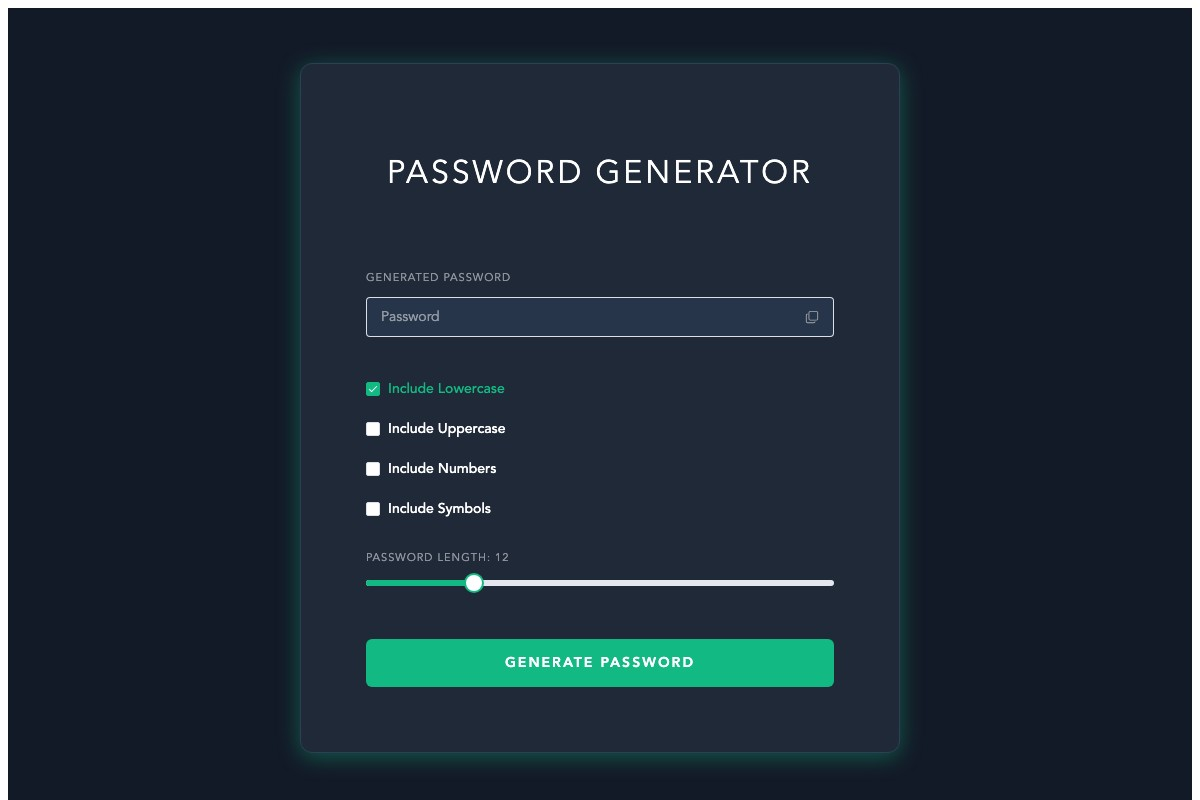
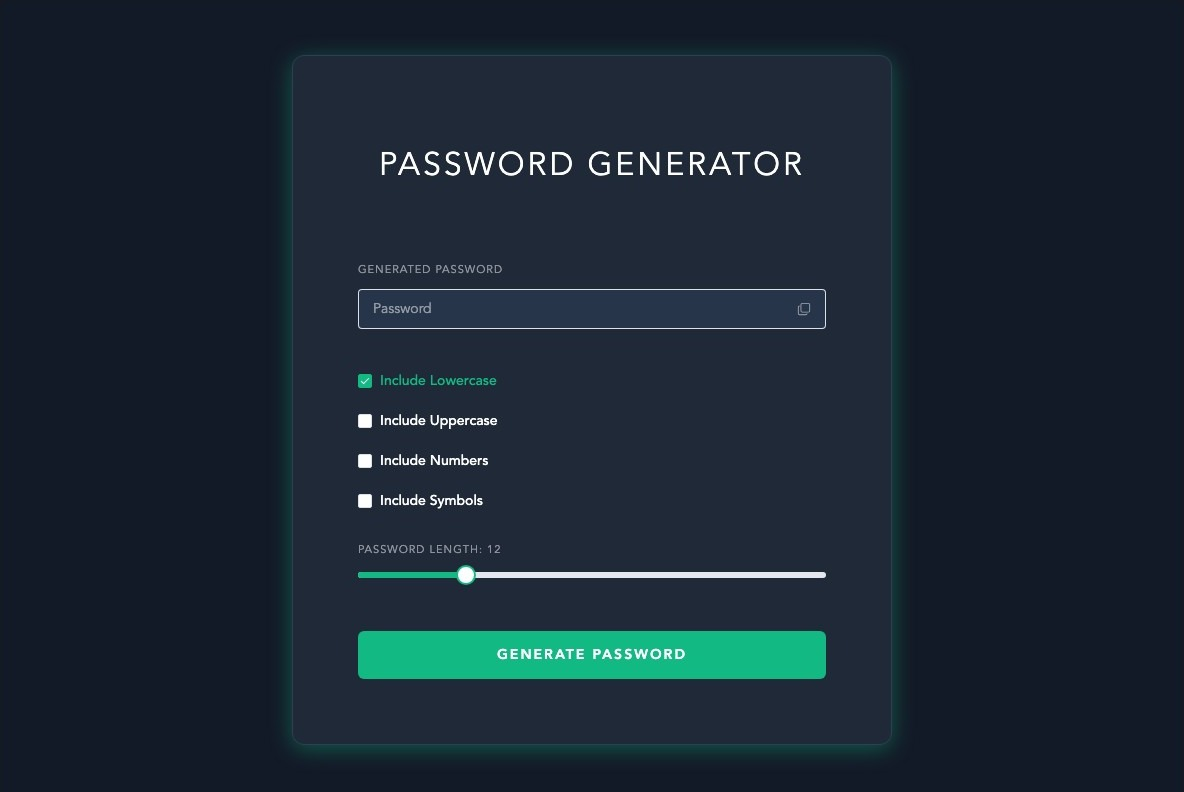
Fix white border artifact on Password Generator thumbnail
The source screenshot had a stray 7-8px pure-white strip on its top,
left, and right edges (an artifact from the original capture), which
read as a bright line when scaled down for the small tile. Cropped
it out. Also switches the tile's mask-container background from
bg-card to bg-background for a cleaner blend at the mask edge.

diff --git a/src/components/site/project-tile.tsx b/src/components/site/project-tile.tsx
@@ -19,7 +19,7 @@ export function ProjectTile({ title, description, image, link, discipline }: Pro
     <div className="group">
       <div className="relative">
         <div
-          className="aspect-[4/3] overflow-hidden rounded-[28px] bg-card"
+          className="aspect-[4/3] overflow-hidden rounded-[28px] bg-background"
           style={{
             WebkitMaskImage: NOTCH_MASK,
             maskImage: NOTCH_MASK,
